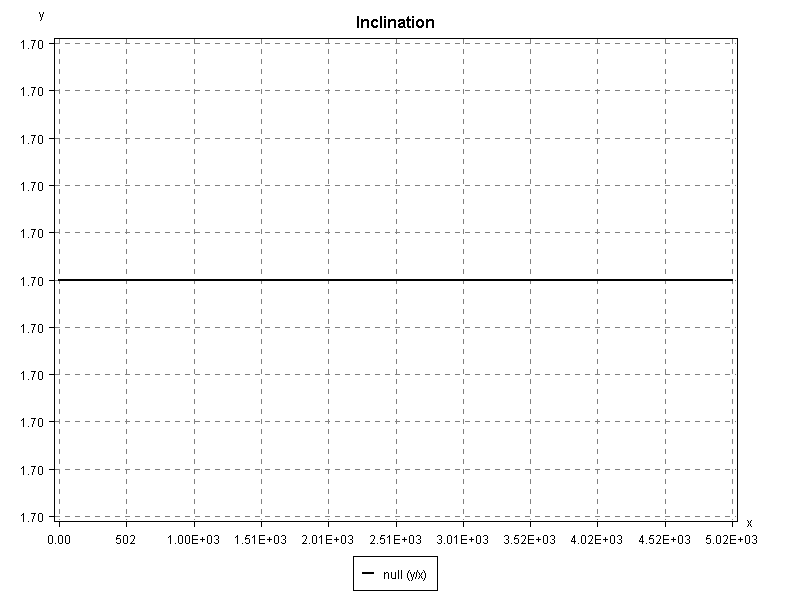
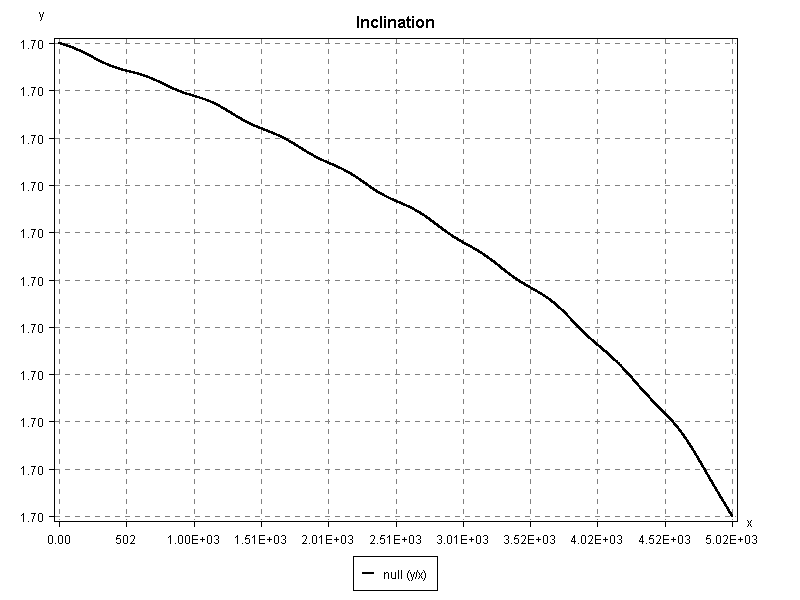
Added Mux version of DSST Propagator

diff --git a/src/main/java/quickTest/DSSTPropagationMux.java b/src/main/java/quickTest/DSSTPropagationMux.java
@@ -1,0 +1,258 @@
+package quickTest;
+
+import java.io.File;
+
+import java.io.FileWriter;
+import java.io.IOException;
+import java.util.ArrayList;
+import java.util.List;
+import java.util.Locale;
+import java.util.stream.Collectors;
+
+import org.hipparchus.ode.AbstractIntegrator;
+import org.hipparchus.ode.nonstiff.ClassicalRungeKuttaIntegrator;
+import org.hipparchus.util.FastMath;
+import org.orekit.bodies.CelestialBody;
+import org.orekit.bodies.CelestialBodyFactory;
+import org.orekit.bodies.OneAxisEllipsoid;
+import org.orekit.data.DataContext;
+import org.orekit.data.DataProvidersManager;
+import org.orekit.data.DirectoryCrawler;
+import org.orekit.errors.OrekitException;
+import org.orekit.forces.drag.DragSensitive;
+import org.orekit.forces.drag.IsotropicDrag;
+import org.orekit.forces.gravity.potential.GravityFieldFactory;
+import org.orekit.forces.gravity.potential.UnnormalizedSphericalHarmonicsProvider;
+import org.orekit.forces.radiation.IsotropicRadiationSingleCoefficient;
+import org.orekit.forces.radiation.RadiationSensitive;
+import org.orekit.frames.Frame;
+import org.orekit.frames.FramesFactory;
+import org.orekit.models.earth.atmosphere.HarrisPriester;
+import org.orekit.orbits.KeplerianOrbit;
+import org.orekit.orbits.Orbit;
+import org.orekit.orbits.OrbitType;
+import org.orekit.orbits.PositionAngle;
+import org.orekit.propagation.PropagationType;
+import org.orekit.propagation.SpacecraftState;
+import org.orekit.propagation.sampling.OrekitFixedStepHandler;
+import org.orekit.propagation.semianalytical.dsst.DSSTPropagator;
+import org.orekit.time.AbsoluteDate;
+import org.orekit.time.TimeScalesFactory;
+import org.orekit.utils.Constants;
+import org.orekit.utils.IERSConventions;
+import org.orekit.propagation.semianalytical.dsst.forces.DSSTAtmosphericDrag;
+import org.orekit.propagation.semianalytical.dsst.forces.DSSTSolarRadiationPressure;
+import org.orekit.propagation.semianalytical.dsst.forces.DSSTTesseral;
+import org.orekit.propagation.semianalytical.dsst.forces.DSSTZonal;
+
+
+public class DSSTPropagationMux {
+	
+	/** Private constructor for utility class. */
+    private DSSTPropagationMux() {
+        // empty
+    }
+    static ArrayList<KeplerianOrbit> orbitList = new ArrayList<>();
+    
+public static void main(final String[] args) {
+	 try {
+
+         // configure Orekit
+         final File home       = new File(System.getProperty("user.home"));
+         final File orekitData = new File(home, "orekit-data");
+         if (!orekitData.exists()) {
+             System.err.format(Locale.US, "Failed to find %s folder%n",
+                               orekitData.getAbsolutePath());
+             System.err.format(Locale.US, "You need to download %s from %s, unzip it in %s and rename it 'orekit-data' for this tutorial to work%n",
+                               "orekit-data-master.zip", "https://gitlab.orekit.org/orekit/orekit-data/-/archive/master/orekit-data-master.zip",
+                               home.getAbsolutePath());
+             System.exit(1);  
+         }
+         final DataProvidersManager manager = DataContext.getDefault().getDataProvidersManager();
+         manager.addProvider(new DirectoryCrawler(orekitData));
+         
+         // gravitation coefficient
+         final double mu =  3.986004415e+14;
+
+         // inertial frame
+         final Frame inertialFrame = FramesFactory.getEME2000();
+         
+         // Load Celestial bodies
+         // ---------------------
+         final CelestialBody   sun   = CelestialBodyFactory.getSun();
+       
+         
+         // Initial date
+         final AbsoluteDate initialDate = new AbsoluteDate(2024,07,02,12,0,0,TimeScalesFactory.getUTC());
+
+         // Initial orbit
+         final double RE = Constants.EIGEN5C_EARTH_EQUATORIAL_RADIUS;
+         final double a = 6878.e3; // semi major axis in meters
+         final double ecc = 2.e-2; // eccentricity
+         final double i = 97.4009688*Math.PI/180; // inclination
+         final double omega =Math.PI/2; // perigee argument
+         final double raan = 0; // right ascention of ascending node
+         final double lM = 0; // mean anomaly
+         final Orbit initialOrbit = new KeplerianOrbit(a, ecc, i, omega, raan, lM, PositionAngle.MEAN,
+                       inertialFrame, initialDate, mu);
+
+        final double fixedStepSize = 2*Math.PI*Math.sqrt((a*a*a)/mu);
+        final int datastep = 100; // Interval between recorded data points on output file
+ 		final int duration = 500*86400;// in seconds
+        final double  mass= 2.66;
+        final AbsoluteDate start = initialOrbit.getDate();
+
+         final double rotationRate = Constants.WGS84_EARTH_ANGULAR_VELOCITY;
+         
+         
+         // Defining the Propagator
+         final AbstractIntegrator integrator = new ClassicalRungeKuttaIntegrator(fixedStepSize);
+         
+         final PropagationType outputType = PropagationType.MEAN; 
+         
+         final  DSSTPropagator propagator = new DSSTPropagator(integrator, outputType);
+         propagator.setInitialState(new SpacecraftState(initialOrbit, mass), PropagationType.MEAN);
+         
+       //Models
+         final IERSConventions conventions = IERSConventions.IERS_2010;
+         final Frame earthFrame = FramesFactory.getITRF(conventions, false);
+         final OneAxisEllipsoid earth = new OneAxisEllipsoid(Constants.WGS84_EARTH_EQUATORIAL_RADIUS,
+                 Constants.WGS84_EARTH_FLATTENING,
+                 earthFrame);
+         
+         
+         // Gravity Field Force Model
+         
+         
+         final int ZonalMaxDegree = 15;
+         final int ZonalMaxOrder = 15;
+         final UnnormalizedSphericalHarmonicsProvider unnormalized =
+                 GravityFieldFactory.getConstantUnnormalizedProvider(ZonalMaxDegree,  ZonalMaxOrder);
+         propagator.addForceModel(new DSSTZonal(unnormalized));
+         propagator.addForceModel(new DSSTTesseral(earthFrame, rotationRate, unnormalized));
+         
+         
+         // Atmosphere
+         final HarrisPriester atmos = new HarrisPriester(sun,earth);
+         
+         // Drag
+         double crossArea = 0.025;
+         double Cd = 2.2;
+         DragSensitive ssc = new IsotropicDrag(crossArea, Cd);
+         propagator.addForceModel(new DSSTAtmosphericDrag(atmos, ssc, mu));
+        
+         // Solar Radiation Pressure
+         double cR = 1.8;
+         double srpArea = 0.025;
+         final RadiationSensitive ssrc = new IsotropicRadiationSingleCoefficient(srpArea, cR);
+         propagator.addForceModel(new DSSTSolarRadiationPressure(sun, RE, ssrc, mu));
+         
+         
+         //Propagation
+         
+         propagator.getMultiplexer().add(8600, new TestStepHandler());
+         
+         final double dsstOn = System.currentTimeMillis();
+         propagator.propagate(start, start.shiftedBy(duration));
+         final double dsstOff = System.currentTimeMillis();
+         System.out.println("DSST execution time (without large file write) : " + (dsstOff - dsstOn) / 1000.);
+         
+
+         //Writing the results to a text file         
+         new WriteToFile("output/numericaltest.txt",datastep);
+         
+         BasicPlot plotter = new BasicPlot(); //creating plotter class
+         List<Double> AList = orbitList.stream().map(KeplerianOrbit::getA).collect(Collectors.toList());
+         plotter.plot(AList, "Semi Major Axis" ,"NumericalA");	
+
+         ArrayList<Double> AltList = new ArrayList<>();
+         for (double r : AList) {
+         	AltList.add(r-RE);
+         }
+         plotter.plot(AltList, "Altitude" ,"DSSTAlt");	
+         
+         List<Double> EList = orbitList.stream().map(KeplerianOrbit::getE).collect(Collectors.toList()); //Eccentricity
+         plotter.plot(EList, "Eccentricity" ,"DSSTE");	
+         
+         List<Double> IList = orbitList.stream().map(KeplerianOrbit::getI).collect(Collectors.toList()); //Inclination
+         plotter.plot(IList, "Inclination" ,"DSSTI");	
+
+         List<Double> APList = orbitList.stream().map(KeplerianOrbit::getPerigeeArgument).collect(Collectors.toList());
+         plotter.plot(APList, "Argument of the Perigee" ,"DSSTAP");	
+
+         List<Double> RaanList = orbitList.stream().map(KeplerianOrbit::getRightAscensionOfAscendingNode).collect(Collectors.toList());
+         plotter.plot(RaanList, "Right Ascension of Ascending Node" ,"DSSTRaan");				
+         
+         System.out.println("Successfully wrote to the file.");
+      
+         
+         
+}catch (OrekitException oe) {
+    System.err.println(oe.getLocalizedMessage());
+}
+}	 
+
+private static class TestStepHandler implements OrekitFixedStepHandler {
+
+    /** Simple constructor.
+     */
+    TestStepHandler() {
+        //private constructor
+    }
+
+    /** {@inheritDoc} */
+    @Override
+    public void init(final SpacecraftState s0, final AbsoluteDate t, final double step) {
+    }
+
+    /** {@inheritDoc} */
+    @Override
+    public void handleStep(final SpacecraftState currentState) {
+        final KeplerianOrbit o = (KeplerianOrbit) OrbitType.KEPLERIAN.convertType(currentState.getOrbit());
+        orbitList.add(o);
+    }
+
+    /** {@inheritDoc} */
+    @Override
+    public void finish(final SpacecraftState finalState) {
+        System.out.println("this was the last step ");
+        System.out.println();
+    }
+
+}
+	 
+	private static class WriteToFile{
+	
+    WriteToFile(String filename, int dataStep) {
+   		 try {
+   			 FileWriter myWriter = new FileWriter(filename);
+   			 int i = -1;
+   			 int previ = 0;
+   			 for(KeplerianOrbit o : orbitList) {
+   				 i += 1;
+   				 if( i-previ == 0 || i-previ == dataStep) {
+   					 myWriter.write(String.valueOf(o.getA()) + ";"
+   					     + String.valueOf(o.getE()) + ";" 
+   					     + String.valueOf(FastMath.toDegrees(o.getI())) + ";" 
+   					     + String.valueOf(FastMath.toDegrees(o.getPerigeeArgument())) + ";" 
+   					     + String.valueOf(FastMath.toDegrees(o.getTrueAnomaly())) + "\n");
+   					 previ = i;
+   				 }
+   			 }
+   			 myWriter.close();
+   			 
+   		 }
+   		 catch (IOException e) {
+                System.out.println("An error occurred.");
+                e.printStackTrace();
+              }
+   	    }
+   	
+   }
+
+
+}
+	 
+
+
+

diff --git a/src/main/java/quickTest/QuickTestClass.java b/src/main/java/quickTest/QuickTestClass.java
@@ -50,7 +50,8 @@ public class QuickTestClass{
         
         
         final AbsoluteDate initialDate = new AbsoluteDate(2024,07,02,12,0,0, TimeScalesFactory.getUTC());
-		double 	sma = 6878.e3;   //sma = 6903.1363e3
+        final double RE = Constants.EIGEN5C_EARTH_EQUATORIAL_RADIUS;
+        double 	sma = 6878.e3;   //sma = 6903.1363e3
 	 	double	ecc = 2.e-2; //0.02535084
 	 	
 		double	inc = 94*Math.PI/180;//CL_op_ssoJ2("i", sma, ecc);
@@ -129,6 +130,12 @@ public class QuickTestClass{
         
         List<Double> AList = orbitList.stream().map(KeplerianOrbit::getA).collect(Collectors.toList()); //Semi-major Axis
         plotter.plot(AList, "Semi Major Axis" ,"AnalyticalA");	
+        
+        ArrayList<Double> AltList = new ArrayList<>();
+        for (double r : AList) {
+        	AltList.add(r-RE);
+        }
+        plotter.plot(AltList, "Altitude" ,"AnalyticalAlt");
         
         List<Double> EList = orbitList.stream().map(KeplerianOrbit::getE).collect(Collectors.toList()); //Eccentricity
         plotter.plot(EList, "Eccentricity" ,"AnalyticalE");	
